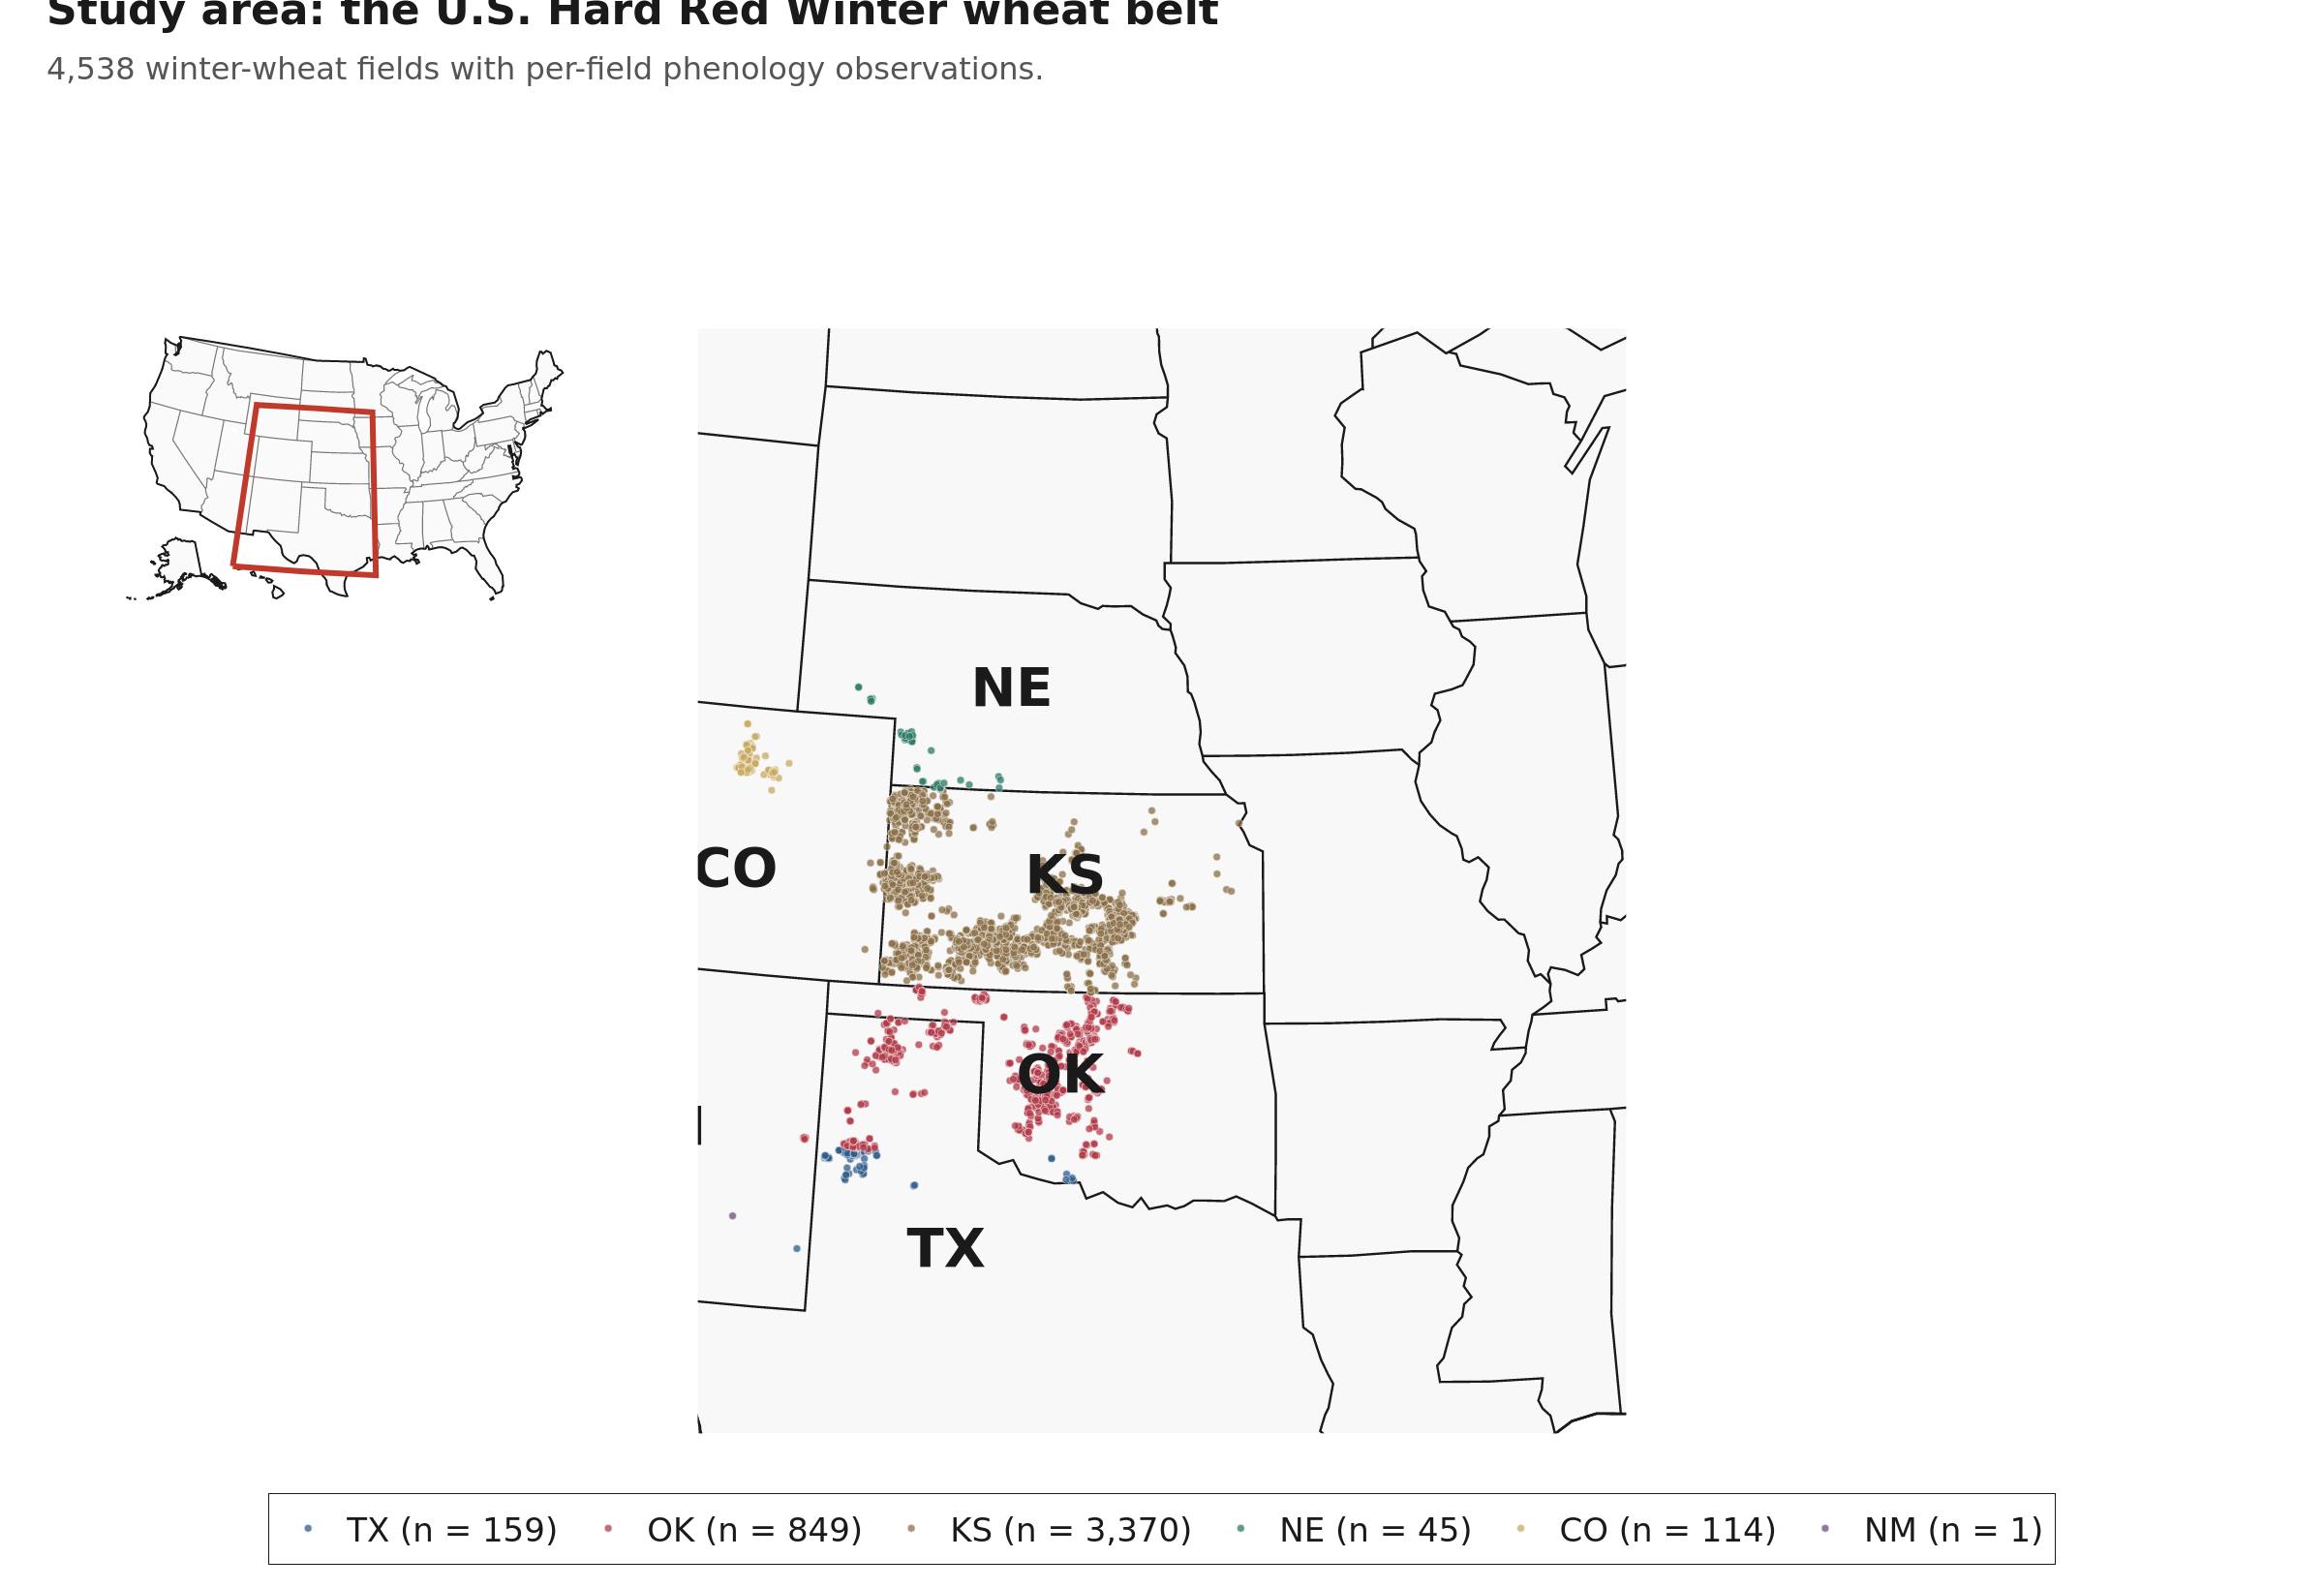
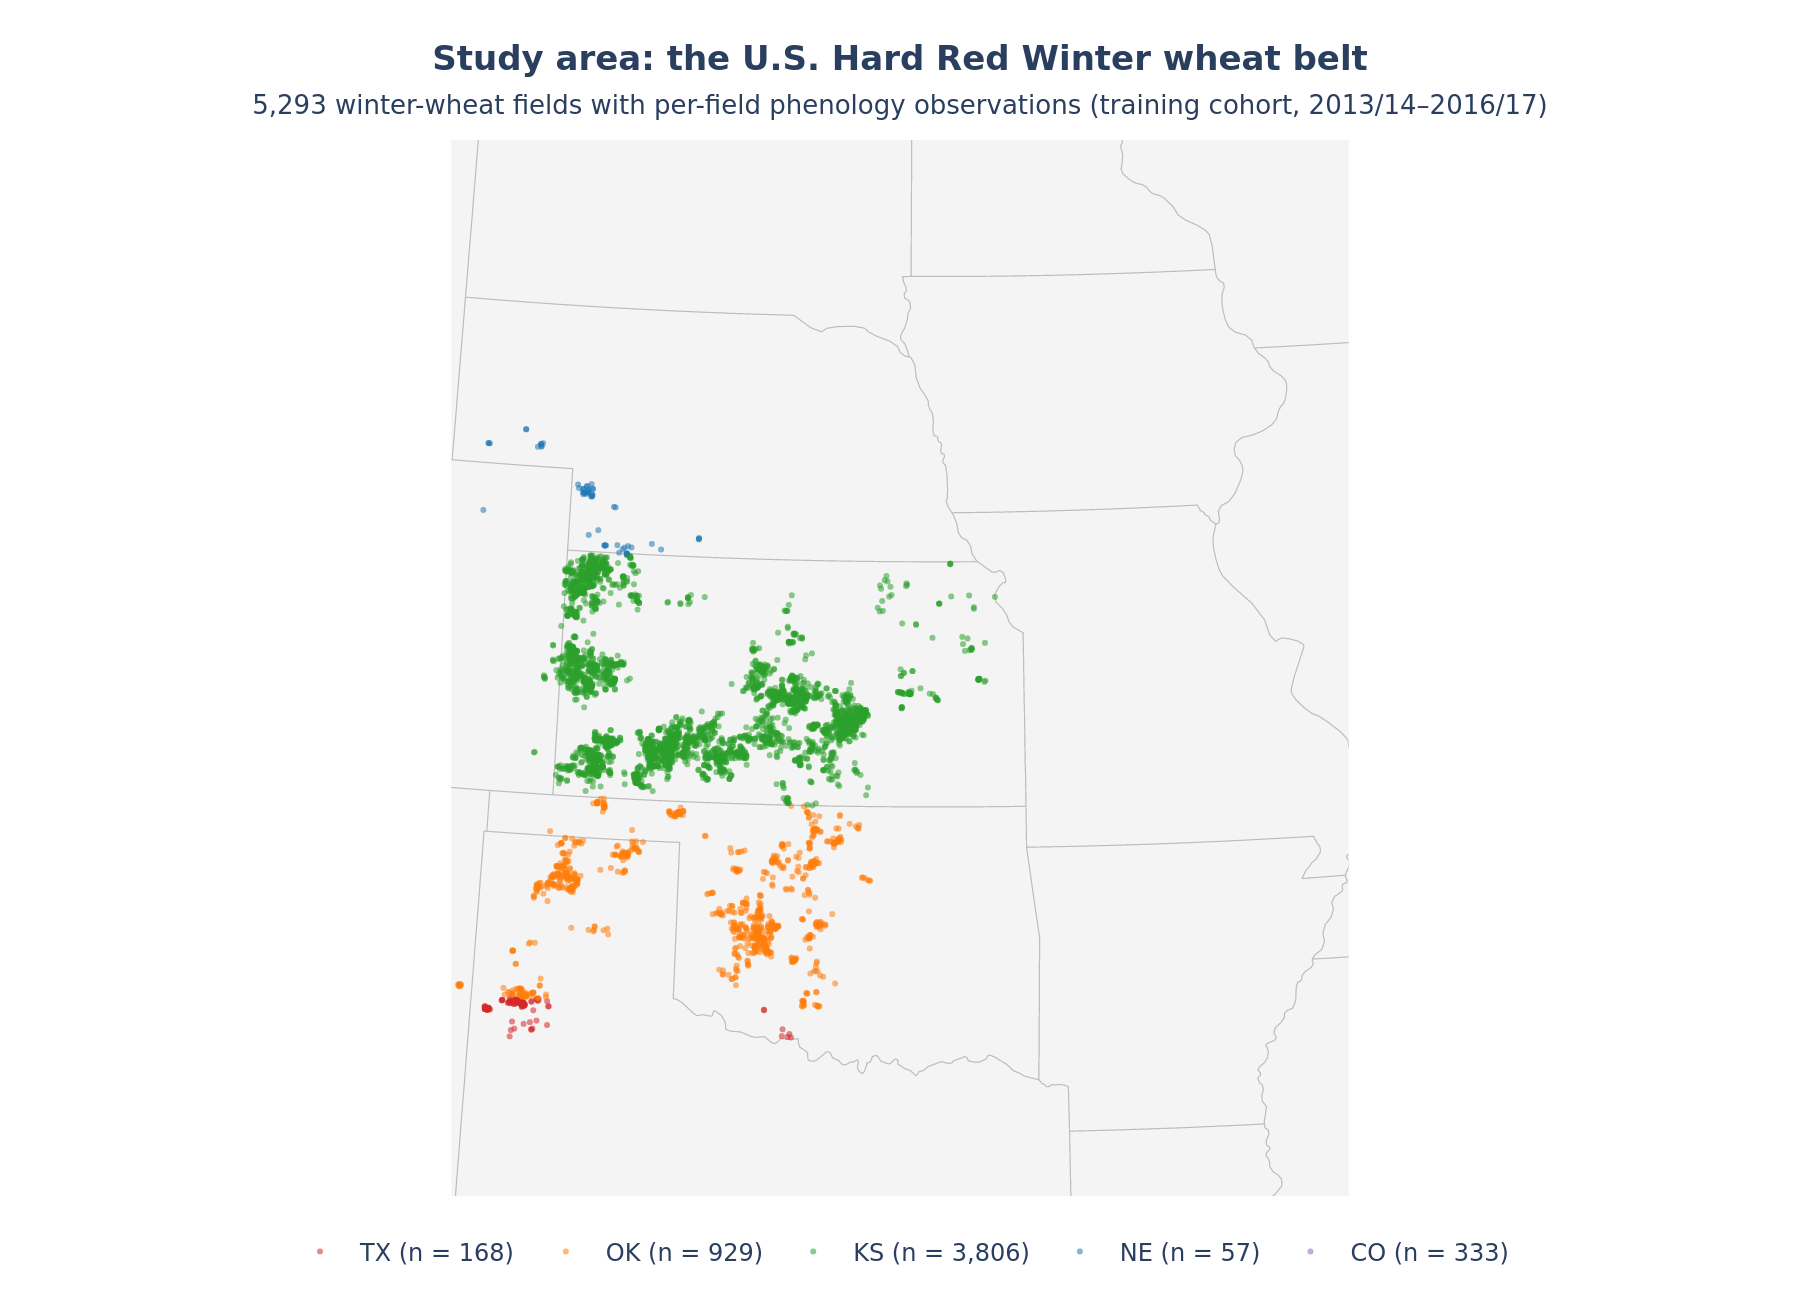
F1 study-area rebuilt from v3 cohort (5,293 fields); add sowing-sensitivity script
- 45_build_f1_study_area.py: regenerate F1 from features_v3_realsowing_train
  (was stale 4,538 from pre-v3 cohort); NM folded into TX per manuscript
- 44_sowing_sensitivity.py: reviewer de-risking - perturb fallback sowing
  dates, re-run WES + Phase-E LOYO, quantify surviving physiology gain

diff --git a/scripts/00_extraction/extension_2018_2024/44_sowing_sensitivity.py b/scripts/00_extraction/extension_2018_2024/44_sowing_sensitivity.py
@@ -1,0 +1,276 @@
+"""Sowing-date fallback sensitivity analysis (reviewer de-risking, SI).
+
+Question a JAG reviewer will ask: 85.3% of training field-years use the
+state-median sowing-date fallback to anchor the Wang--Engel--Streck (WES)
+simulator. If those fallback sowing dates are perturbed with random noise,
+how much of the physiology-informed gain (Delta R^2 = R2[hybrid] - R2[ML-only])
+on the reproductive stages survives?
+
+Design
+------
+* Identify fallback vs observed field-years from sowing_lookup.parquet
+  (source == 'state_median' -> fallback; else observed, left untouched).
+* For sigma in {7, 14, 21} days and N replicate seeds, add round(N(0,sigma))
+  to the fallback sowing DOY only, re-run the *published* simulate_wes()
+  for every perturbed field-year, and overwrite its WE_<stage>_doy columns.
+  Observed-sowing rows keep their original WE values.
+* Re-run the exact Phase-E LOYO procedure (copied verbatim from
+  39_phase_e_v3.py) for the C_Hybrid strategy using each reproductive
+  stage's best model. B_ML-only does not use WE features, so its R^2 is
+  invariant under perturbation and is computed once as the baseline.
+* Report R2[hybrid] and the surviving gain at each sigma vs the
+  unperturbed control.
+
+Outputs
+-------
+  v3_results/sowing_sensitivity.csv          (per stage x sigma x rep)
+  v3_results/sowing_sensitivity_summary.csv  (mean +/- sd, % gain retained)
+"""
+from pathlib import Path
+import time
+import warnings
+warnings.filterwarnings('ignore')
+
+import numpy as np
+import pandas as pd
+from sklearn.linear_model import ElasticNetCV, RidgeCV
+from sklearn.ensemble import RandomForestRegressor
+from sklearn.preprocessing import StandardScaler
+from sklearn.pipeline import Pipeline
+from sklearn.impute import SimpleImputer
+from sklearn.feature_selection import SelectKBest, f_regression
+from xgboost import XGBRegressor
+from lightgbm import LGBMRegressor
+
+import sys
+ROOT = Path('/home/vmangidi/repositories/WheatPhenologyHRW')
+sys.path.insert(0, str(ROOT))
+from scripts.utils.thermal import simulate_wes
+
+EXT = Path('/depot/ciampitti/data/WheatPhenologyHRW/data/raw/satellite/extension_2018_2024')
+TRAIN_FEAT = EXT / 'features_v3_realsowing_train.parquet'
+SOW_LOOKUP = EXT / 'sowing_lookup.parquet'
+DAYMET     = EXT / 'daymet_full_2013_2024.parquet'
+PHENO_PATH = ('/depot/ciampitti/data/WheatPhenologyHRW/data/processed/'
+              'buffer_300m/wheat_hrw_phenology_buffer_matched.parquet')
+OUT_DIR = EXT / 'v3_results'
+OUT_DIR.mkdir(parents=True, exist_ok=True)
+
+SIGMAS = [7, 14, 21]      # days, std of Gaussian perturbation
+N_REPS = 3
+# Best (strategy, model) per reproductive stage, from multi_stage_best_a6_gs
+BEST_MODEL = {'flag_leaf': 'XGBoost', 'boot': 'LightGBM',
+              'heading': 'ElasticNet', 'anthesis': 'ElasticNet'}
+REPRO = list(BEST_MODEL)
+
+# ─── Phase-E constants (verbatim from 39_phase_e_v3.py) ───
+STAGE_MAP = {
+    'flag_leaf':  ['Flag Leaf Emerging', 'Flag Leaf Emerged'],
+    'boot':       ['Early Boot', 'Boot'],
+    'heading':    ['Head Emerging', 'Heading', 'Complete Heading'],
+    'anthesis':   ['Early Bloom', 'Bloom'],
+}
+META_FIXED = ['field_id', 'year', 'flag_true_doy', 'n_obs', 'sowing_doy_used']
+REDUND = ['GDD_M2_at_SOS', 'VD_at_SOS', 'emergence_doy',
+          'VD_from_emergence_at_SOS', 'fV_from_emergence_at_SOS',
+          'days_emergence_to_SOS']
+WE_OUTPUTS = ['WE_emergence_doy', 'WE_tillering_doy', 'WE_jointing_doy',
+              'WE_flag_leaf_doy', 'WE_boot_doy', 'WE_heading_doy',
+              'WE_anthesis_doy', 'WE_maturity_doy']
+LINEAR_MODELS = {'ElasticNet', 'Ridge'}
+K_GRID = (20, 40, 60, 80, None)
+
+
+def model_factory(name):
+    return {
+        'ElasticNet': lambda: ElasticNetCV(l1_ratio=[.1, .3, .5, .7, .9, .95, 1.0],
+                                           n_alphas=20, max_iter=20000, cv=5, n_jobs=-1),
+        'Ridge':      lambda: RidgeCV(alphas=np.logspace(-3, 3, 30), cv=5),
+        'RandomForest': lambda: RandomForestRegressor(n_estimators=200, n_jobs=-1, random_state=42),
+        'XGBoost':    lambda: XGBRegressor(n_estimators=300, max_depth=5, learning_rate=0.05,
+                                           n_jobs=-1, random_state=42, verbosity=0),
+        'LightGBM':   lambda: LGBMRegressor(n_estimators=300, max_depth=5, learning_rate=0.05,
+                                            n_jobs=-1, random_state=42, verbose=-1),
+    }[name]
+
+
+def build_targets(pheno):
+    out = None
+    for stage, labels in STAGE_MAP.items():
+        s = pheno[pheno['growth_stage'].isin(labels)].copy()
+        s['harvest_year'] = s['growing_season'].str.split('-').str[1].astype(int)
+        s['field_id'] = s['FIELDID'].astype(str)
+        e = (s.groupby(['field_id', 'harvest_year'])['dos'].min().reset_index()
+              .rename(columns={'harvest_year': 'year', 'dos': f'{stage}_dos_obs'}))
+        out = e if out is None else out.merge(e, on=['field_id', 'year'], how='outer')
+    return out
+
+
+def loyo_predict(df, feat_cols, target, factory, model_name):
+    """Verbatim LOYO from 39_phase_e_v3.py (linear models tune SelectKBest k)."""
+    df2 = df.dropna(subset=[target]).copy()
+    q1, q99 = df2[target].quantile([0.01, 0.99])
+    df2 = df2[(df2[target] >= q1) & (df2[target] <= q99)].copy()
+    is_linear = model_name in LINEAR_MODELS
+    pred_all, true_all = [], []
+    for yr in sorted(df2['year'].unique()):
+        tr = df2[df2['year'] != yr]
+        te = df2[df2['year'] == yr]
+        if len(tr) < 50 or len(te) < 5:
+            continue
+        if is_linear:
+            best_k, best_score = None, -np.inf
+            for k in K_GRID:
+                steps = [('imp', SimpleImputer(strategy='median')), ('sc', StandardScaler())]
+                if k is not None:
+                    steps.append(('sel', SelectKBest(f_regression, k=min(k, len(feat_cols)))))
+                steps.append(('m', factory()))
+                pipe = Pipeline(steps)
+                inner_yrs = sorted(tr['year'].unique())
+                if len(inner_yrs) < 2:
+                    pipe.fit(tr[feat_cols], tr[target]); score = 0
+                else:
+                    val_y = inner_yrs[-1]
+                    itr = tr[tr['year'] != val_y]; iva = tr[tr['year'] == val_y]
+                    pipe.fit(itr[feat_cols], itr[target])
+                    pv = pipe.predict(iva[feat_cols]); yv = iva[target].values
+                    den = np.sum((yv - yv.mean()) ** 2)
+                    score = 1 - np.sum((yv - pv) ** 2) / den if den > 0 else 0
+                if score > best_score:
+                    best_score, best_k = score, k
+            steps = [('imp', SimpleImputer(strategy='median')), ('sc', StandardScaler())]
+            if best_k is not None:
+                steps.append(('sel', SelectKBest(f_regression, k=min(best_k, len(feat_cols)))))
+            steps.append(('m', factory()))
+            pipe = Pipeline(steps)
+        else:
+            pipe = Pipeline([('imp', SimpleImputer(strategy='median')),
+                             ('sc', StandardScaler()), ('m', factory())])
+        pipe.fit(tr[feat_cols], tr[target])
+        pred = pipe.predict(te[feat_cols])
+        if pred.ndim > 1:
+            pred = pred.ravel()
+        pred_all.extend(pred); true_all.extend(te[target].values)
+    return np.array(pred_all), np.array(true_all)
+
+
+def r2_of(y, p):
+    den = np.sum((y - y.mean()) ** 2)
+    return float(1 - np.sum((y - p) ** 2) / den) if den > 0 else 0.0
+
+
+def main():
+    t0 = time.time()
+    print('=== Loading inputs ===', flush=True)
+    feat = pd.read_parquet(TRAIN_FEAT)
+    feat['field_id'] = feat['field_id'].astype(str)
+    feat['year'] = feat['year'].astype(int)
+    if 'state' in feat.columns:
+        feat = feat.drop(columns=['state'])
+    pheno = pd.read_parquet(PHENO_PATH)
+    feat = feat.merge(build_targets(pheno), on=['field_id', 'year'], how='left')
+
+    sl = pd.read_parquet(SOW_LOOKUP)
+    sl['field_id'] = sl['field_id'].astype(str)
+    sl = sl.rename(columns={'harvest_year': 'year'})
+    feat = feat.merge(sl[['field_id', 'year', 'source', 'sowing_doy_used']]
+                      .rename(columns={'sowing_doy_used': 'sow_base'}),
+                      on=['field_id', 'year'], how='left')
+    is_fb = (feat['source'] == 'state_median').values
+    print(f'Training field-years: {len(feat)}  fallback: {is_fb.sum()} '
+          f'({100*is_fb.mean():.1f}%)  observed: {(~is_fb).sum()}', flush=True)
+
+    # Pre-build per-field-year weather frames for simulate_wes (date, doy, T_mean)
+    print('=== Indexing daymet ===', flush=True)
+    dm = pd.read_parquet(DAYMET, columns=['FIELDID', 'date', 'Tmin', 'Tmax', 'harvest_year'])
+    dm['FIELDID'] = dm['FIELDID'].astype(str)
+    dm['date'] = pd.to_datetime(dm['date'])
+    dm['doy'] = dm['date'].dt.dayofyear
+    dm['T_mean'] = ((dm['Tmin'] + dm['Tmax']) / 2.0).astype('float32')
+    wx_by = {k: g.sort_values('date')[['date', 'doy', 'T_mean']].reset_index(drop=True)
+             for k, g in dm.groupby(['FIELDID', 'harvest_year'])}
+    del dm
+    lat_by = dict(zip(zip(feat['field_id'], feat['year']), feat['latitude']))
+
+    # Feature column groups (verbatim Phase-E logic)
+    target_cols = [f'{s}_dos_obs' for s in STAGE_MAP]
+    META = META_FIXED + target_cols + ['source', 'sow_base']
+    ndre = [c for c in feat.columns if c.startswith('NDRE')]
+    all_cols = [c for c in feat.columns if c not in META and c not in ndre
+                and c not in REDUND and pd.api.types.is_numeric_dtype(feat[c])]
+    hybrid_cols = all_cols
+    mlonly_cols = [c for c in all_cols if c not in WE_OUTPUTS]
+
+    # ── Baseline: ML-only (invariant) + control hybrid (unperturbed WE) ──
+    rows = []
+    base_gain = {}
+    for st in REPRO:
+        tgt = f'{st}_dos_obs'
+        mdl = BEST_MODEL[st]
+        yp, yt = loyo_predict(feat, mlonly_cols, tgt, model_factory(mdl), mdl)
+        r2_ml = r2_of(yt, yp)
+        yp, yt = loyo_predict(feat, hybrid_cols, tgt, model_factory(mdl), mdl)
+        r2_hy0 = r2_of(yt, yp)
+        base_gain[st] = (r2_ml, r2_hy0, r2_hy0 - r2_ml)
+        rows.append(dict(stage=st, model=mdl, sigma=0, rep=0,
+                         r2_mlonly=r2_ml, r2_hybrid=r2_hy0, gain=r2_hy0 - r2_ml))
+        print(f'[control] {st:9s} ML={r2_ml:.3f}  hybrid={r2_hy0:.3f}  '
+              f'gain={r2_hy0 - r2_ml:+.3f}', flush=True)
+
+    fb_idx = np.where(is_fb)[0]
+    fb_keys = list(zip(feat['field_id'].values[fb_idx],
+                       feat['year'].values[fb_idx],
+                       feat['sow_base'].values[fb_idx]))
+
+    for sigma in SIGMAS:
+        for rep in range(1, N_REPS + 1):
+            rng = np.random.RandomState(1000 * sigma + rep)
+            pert = feat.copy()
+            we_new = {c: pert[c].values.copy() for c in WE_OUTPUTS}
+            noise = np.round(rng.normal(0, sigma, len(fb_idx))).astype(int)
+            n_ok = 0
+            for j, (fid, hy, base) in enumerate(fb_keys):
+                wx = wx_by.get((fid, hy))
+                if wx is None or len(wx) == 0:
+                    continue
+                new_sow = int(np.clip(base + noise[j], 220, 330))
+                we = simulate_wes(wx, lat=float(lat_by.get((fid, hy), 38.0)),
+                                  sowing_doy=new_sow, sowing_year=int(hy),
+                                  return_dos=False)
+                ridx = fb_idx[j]
+                for c in WE_OUTPUTS:
+                    we_new[c][ridx] = we.get(c, np.nan)
+                n_ok += 1
+            for c in WE_OUTPUTS:
+                pert[c] = we_new[c]
+            for st in REPRO:
+                tgt = f'{st}_dos_obs'
+                mdl = BEST_MODEL[st]
+                yp, yt = loyo_predict(pert, hybrid_cols, tgt, model_factory(mdl), mdl)
+                r2_hy = r2_of(yt, yp)
+                r2_ml = base_gain[st][0]
+                rows.append(dict(stage=st, model=mdl, sigma=sigma, rep=rep,
+                                 r2_mlonly=r2_ml, r2_hybrid=r2_hy, gain=r2_hy - r2_ml))
+                print(f'[s={sigma:2d} r{rep}] {st:9s} resim={n_ok} '
+                      f'hybrid={r2_hy:.3f} gain={r2_hy - r2_ml:+.3f}', flush=True)
+            pd.DataFrame(rows).to_csv(OUT_DIR / 'sowing_sensitivity.csv', index=False)
+
+    df = pd.DataFrame(rows)
+    summ = []
+    for st in REPRO:
+        g0 = base_gain[st][2]
+        for sigma in SIGMAS:
+            sub = df[(df.stage == st) & (df.sigma == sigma)]
+            gm, gs = sub.gain.mean(), sub.gain.std()
+            summ.append(dict(stage=st, sigma=sigma, gain_control=round(g0, 4),
+                             gain_mean=round(gm, 4), gain_sd=round(gs, 4),
+                             pct_retained=round(100 * gm / g0, 1) if g0 != 0 else np.nan))
+    sdf = pd.DataFrame(summ)
+    sdf.to_csv(OUT_DIR / 'sowing_sensitivity_summary.csv', index=False)
+    print('\n=== SUMMARY (gain = R2 hybrid - R2 ML-only) ===', flush=True)
+    print(sdf.to_string(index=False), flush=True)
+    print(f'\nDone in {(time.time() - t0)/60:.1f} min', flush=True)
+
+
+if __name__ == '__main__':
+    main()

diff --git a/scripts/00_extraction/extension_2018_2024/45_build_f1_study_area.py b/scripts/00_extraction/extension_2018_2024/45_build_f1_study_area.py
@@ -1,0 +1,84 @@
+"""Rebuild F1 (study-area map) from the canonical v3 training cohort.
+
+The previously shipped F1_study_area.png carried a stale subtitle and
+legend (4,538 fields; TX 159 / OK 849 / KS 3,370 / NE 45 / CO 114 / NM 1)
+from a pre-v3 cohort. This regenerates it from
+features_v3_realsowing_train.parquet so the figure agrees with the
+manuscript's training cohort (8,465 field-years; New Mexico folded into
+Texas to match the five-state modelling framing of Section 2).
+
+Outputs (overwrites in place; downstream figures/manuscript pick these up):
+    docs/figures/F1_study_area.{pdf,png}
+    ../paper-overleaf/figures/F1_study_area.{pdf,png}
+"""
+from pathlib import Path
+import warnings
+warnings.filterwarnings('ignore')
+
+import pandas as pd
+import plotly.graph_objects as go
+
+ROOT = Path('/home/vmangidi/repositories/WheatPhenologyHRW')
+EXT = Path('/depot/ciampitti/data/WheatPhenologyHRW/data/raw/satellite/extension_2018_2024')
+TRAIN_FEAT = EXT / 'features_v3_realsowing_train.parquet'
+DOCS = ROOT / 'docs' / 'figures'
+OVERLEAF = ROOT.parent / 'paper-overleaf' / 'figures'
+
+STATE_COLOR = {'TX': '#d62728', 'OK': '#ff7f0e', 'KS': '#2ca02c',
+               'NE': '#1f77b4', 'CO': '#9467bd'}
+STATE_ORDER = ['TX', 'OK', 'KS', 'NE', 'CO']
+
+
+def main():
+    ft = pd.read_parquet(TRAIN_FEAT, columns=['field_id', 'state',
+                                              'latitude', 'longitude'])
+    ft['field_id'] = ft['field_id'].astype(str)
+    # Fold the single New Mexico field into Texas (matches manuscript Sec. 2)
+    ft['state'] = ft['state'].replace({'NM': 'TX'})
+    # One point per unique field (centroid of its field-year rows)
+    fld = (ft.groupby(['field_id', 'state'])[['latitude', 'longitude']]
+             .mean().reset_index())
+    n_total = fld['field_id'].nunique()
+    per_state = fld.groupby('state')['field_id'].nunique().to_dict()
+    print(f'F1 cohort: {n_total} unique fields  ' +
+          '  '.join(f'{s}={per_state.get(s,0)}' for s in STATE_ORDER), flush=True)
+
+    fig = go.Figure()
+    for s in STATE_ORDER:
+        sub = fld[fld['state'] == s]
+        fig.add_trace(go.Scattergeo(
+            lon=sub['longitude'], lat=sub['latitude'],
+            mode='markers',
+            marker=dict(size=3, color=STATE_COLOR[s], opacity=0.55),
+            name=f'{s} (n = {per_state.get(s, 0):,})',
+            hoverinfo='skip',
+        ))
+    fig.update_geos(
+        scope='usa', resolution=50,
+        showland=True, landcolor='#f4f4f4',
+        showlakes=False, subunitcolor='#bdbdbd', subunitwidth=0.6,
+        countrycolor='#9e9e9e',
+        lataxis_range=[31, 43.5], lonaxis_range=[-107, -94],
+    )
+    fig.update_layout(
+        title=dict(
+            text=('<b>Study area: the U.S. Hard Red Winter wheat belt</b><br>'
+                  f'<span style="font-size:13px">{n_total:,} winter-wheat '
+                  'fields with per-field phenology observations '
+                  '(training cohort, 2013/14&#8211;2016/17)</span>'),
+            x=0.5, xanchor='center'),
+        legend=dict(orientation='h', yanchor='bottom', y=-0.08,
+                    xanchor='center', x=0.5),
+        template='plotly_white',
+        margin=dict(l=10, r=10, t=70, b=40),
+    )
+    DOCS.mkdir(parents=True, exist_ok=True)
+    for out in (DOCS, OVERLEAF):
+        out.mkdir(parents=True, exist_ok=True)
+        fig.write_image(str(out / 'F1_study_area.pdf'), width=900, height=650)
+        fig.write_image(str(out / 'F1_study_area.png'), width=900, height=650, scale=2)
+        print(f'wrote {out}/F1_study_area.{{pdf,png}}', flush=True)
+
+
+if __name__ == '__main__':
+    main()